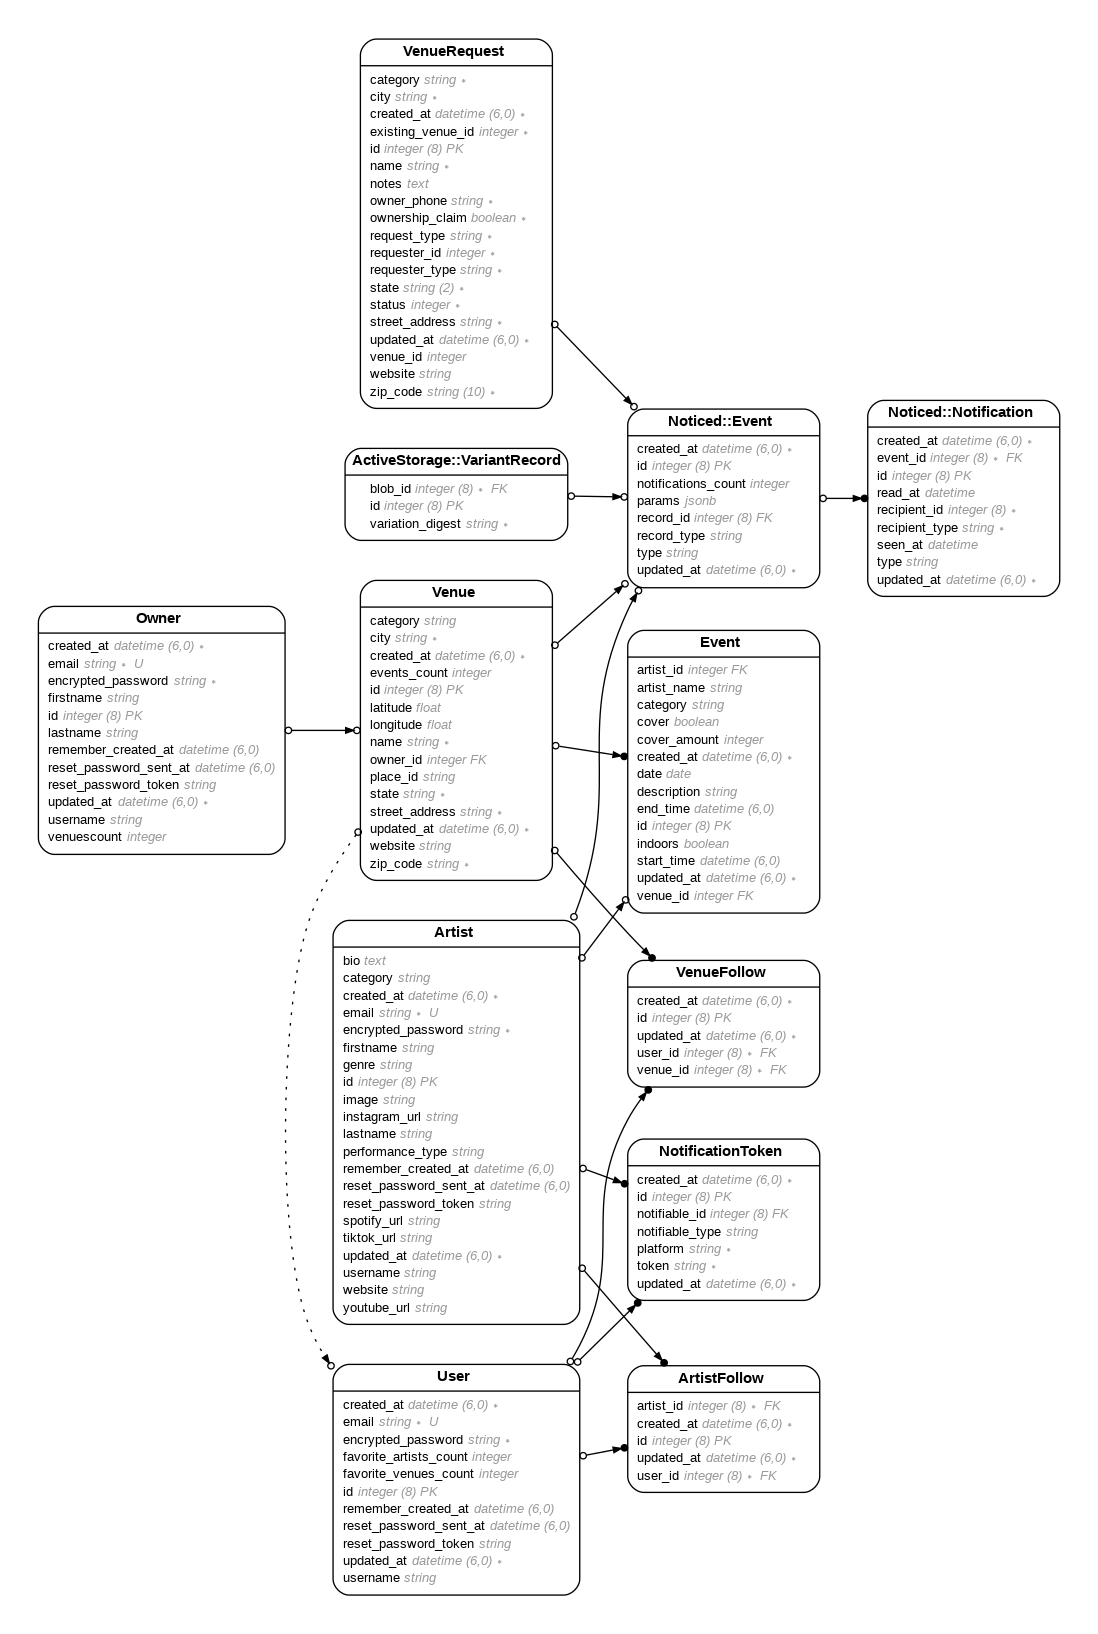
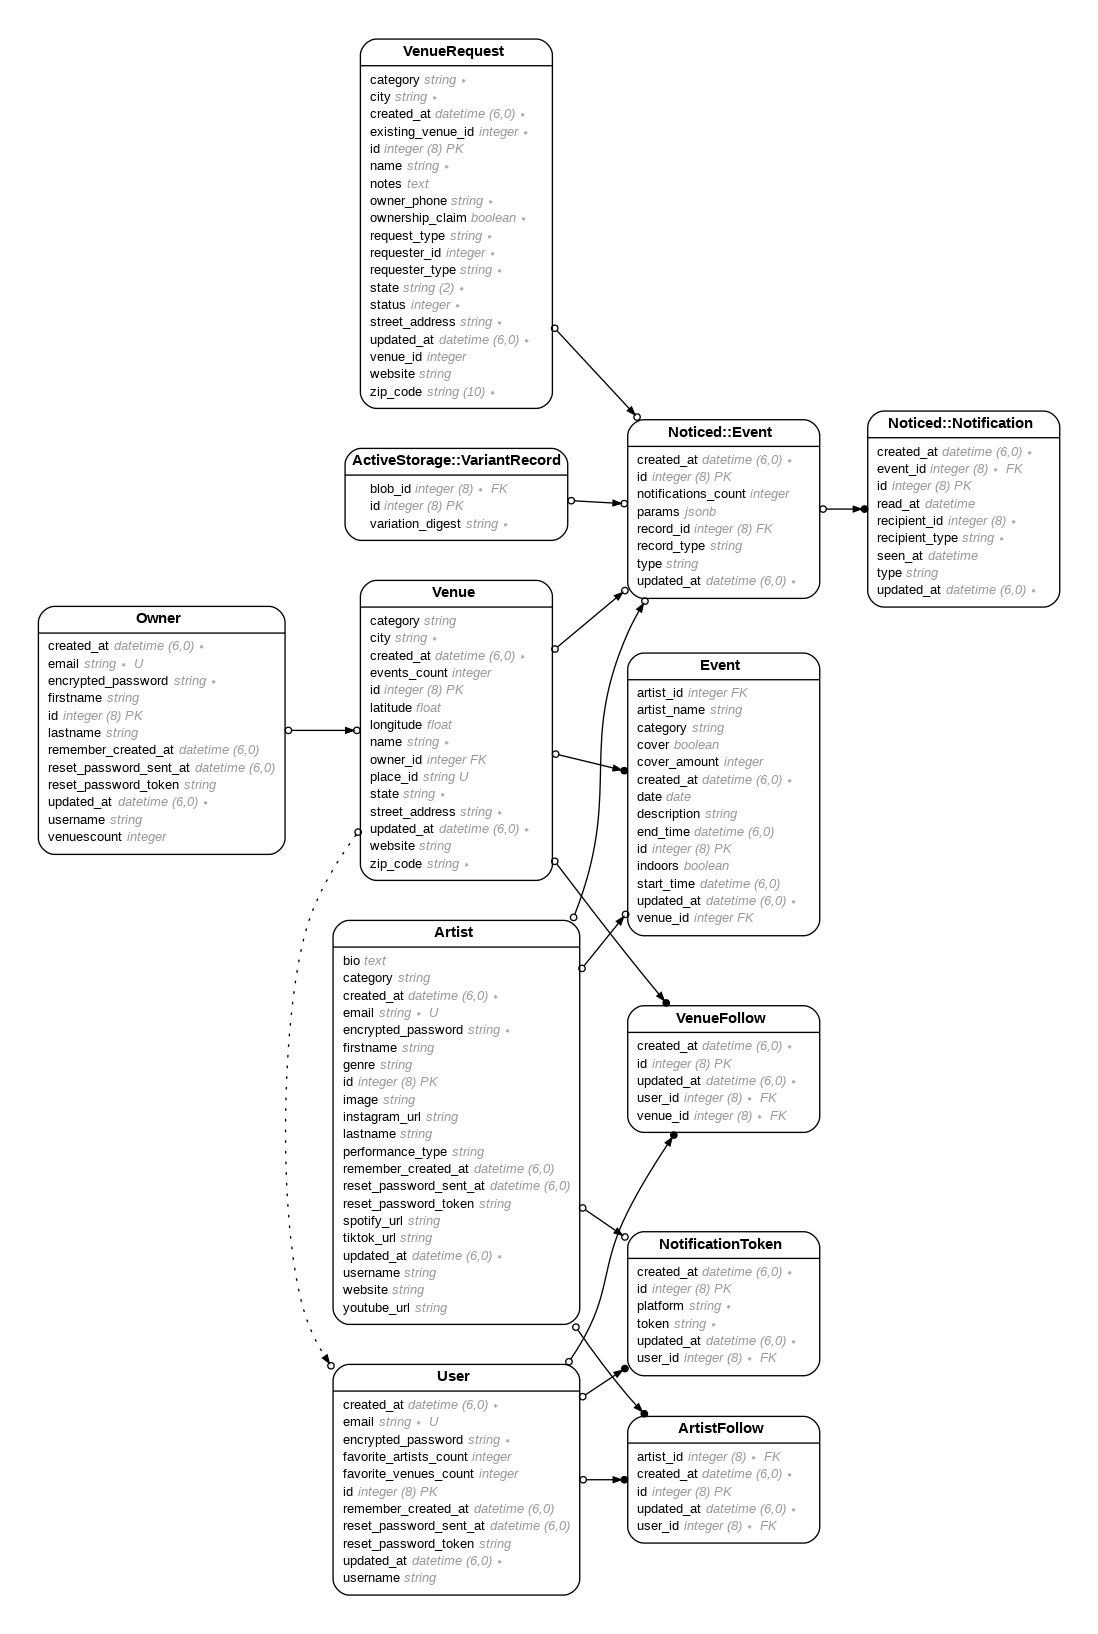
notifications work!!!!

diff --git a/db/schema.rb b/db/schema.rb
@@ -10,7 +10,7 @@
 #
 # It's strongly recommended that you check this file into your version control system.
 
-ActiveRecord::Schema[8.0].define(version: 2025_07_02_220915) do
+ActiveRecord::Schema[8.0].define(version: 2025_07_13_195332) do
   # These are extensions that must be enabled in order to support this database
   enable_extension "pg_catalog.plpgsql"
 
@@ -126,13 +126,12 @@ ActiveRecord::Schema[8.0].define(version: 2025_07_02_220915) do
   end
 
   create_table "notification_tokens", force: :cascade do |t|
+    t.bigint "user_id", null: false
     t.string "token", null: false
     t.string "platform", null: false
     t.datetime "created_at", null: false
     t.datetime "updated_at", null: false
-    t.string "notifiable_type"
-    t.bigint "notifiable_id"
-    t.index ["notifiable_type", "notifiable_id"], name: "index_notification_tokens_on_notifiable"
+    t.index ["user_id"], name: "index_notification_tokens_on_user_id"
   end
 
   create_table "owners", force: :cascade do |t|
@@ -366,6 +365,7 @@ ActiveRecord::Schema[8.0].define(version: 2025_07_02_220915) do
   add_foreign_key "artist_follows", "users"
   add_foreign_key "follows", "artists"
   add_foreign_key "follows", "users"
+  add_foreign_key "notification_tokens", "users"
   add_foreign_key "solid_queue_blocked_executions", "solid_queue_jobs", column: "job_id", on_delete: :cascade
   add_foreign_key "solid_queue_claimed_executions", "solid_queue_jobs", column: "job_id", on_delete: :cascade
   add_foreign_key "solid_queue_failed_executions", "solid_queue_jobs", column: "job_id", on_delete: :cascade

diff --git a/app/models/notification_token.rb b/app/models/notification_token.rb
@@ -2,21 +2,23 @@
 #
 # Table name: notification_tokens
 #
-#  id              :bigint           not null, primary key
-#  notifiable_type :string
-#  platform        :string           not null
-#  token           :string           not null
-#  created_at      :datetime         not null
-#  updated_at      :datetime         not null
-#  notifiable_id   :bigint
+#  id         :bigint           not null, primary key
+#  platform   :string           not null
+#  token      :string           not null
+#  created_at :datetime         not null
+#  updated_at :datetime         not null
+#  user_id    :bigint           not null
 #
 # Indexes
 #
-#  index_notification_tokens_on_notifiable  (notifiable_type,notifiable_id)
+#  index_notification_tokens_on_user_id  (user_id)
+#
+# Foreign Keys
+#
+#  fk_rails_...  (user_id => users.id)
 #
 class NotificationToken < ApplicationRecord
   belongs_to :user
-
   validates :token, presence: true
-  validates :platform, inclusion: {in: %w[iOS]}
+  validates :platform, inclusion: { in: %w[iOS] }
 end

diff --git a/app/notifiers/new_event_notifier.rb b/app/notifiers/new_event_notifier.rb
@@ -5,9 +5,10 @@ class NewEventNotifier < ApplicationNotifier
       recipient.notification_tokens.where(platform: :iOS).pluck(:token)
     }
     config.format = ->(apn) {
+      puts "🚨 Formatting APN payload"
       apn.alert = "New event uploaded!"
       apn.custom_payload = {
-        path: Rails.application.routes.url_helpers.event_path(params[:event]),
+        path: event_path(params[:event]),
       }
     }
     credentials = Rails.application.credentials.ios
